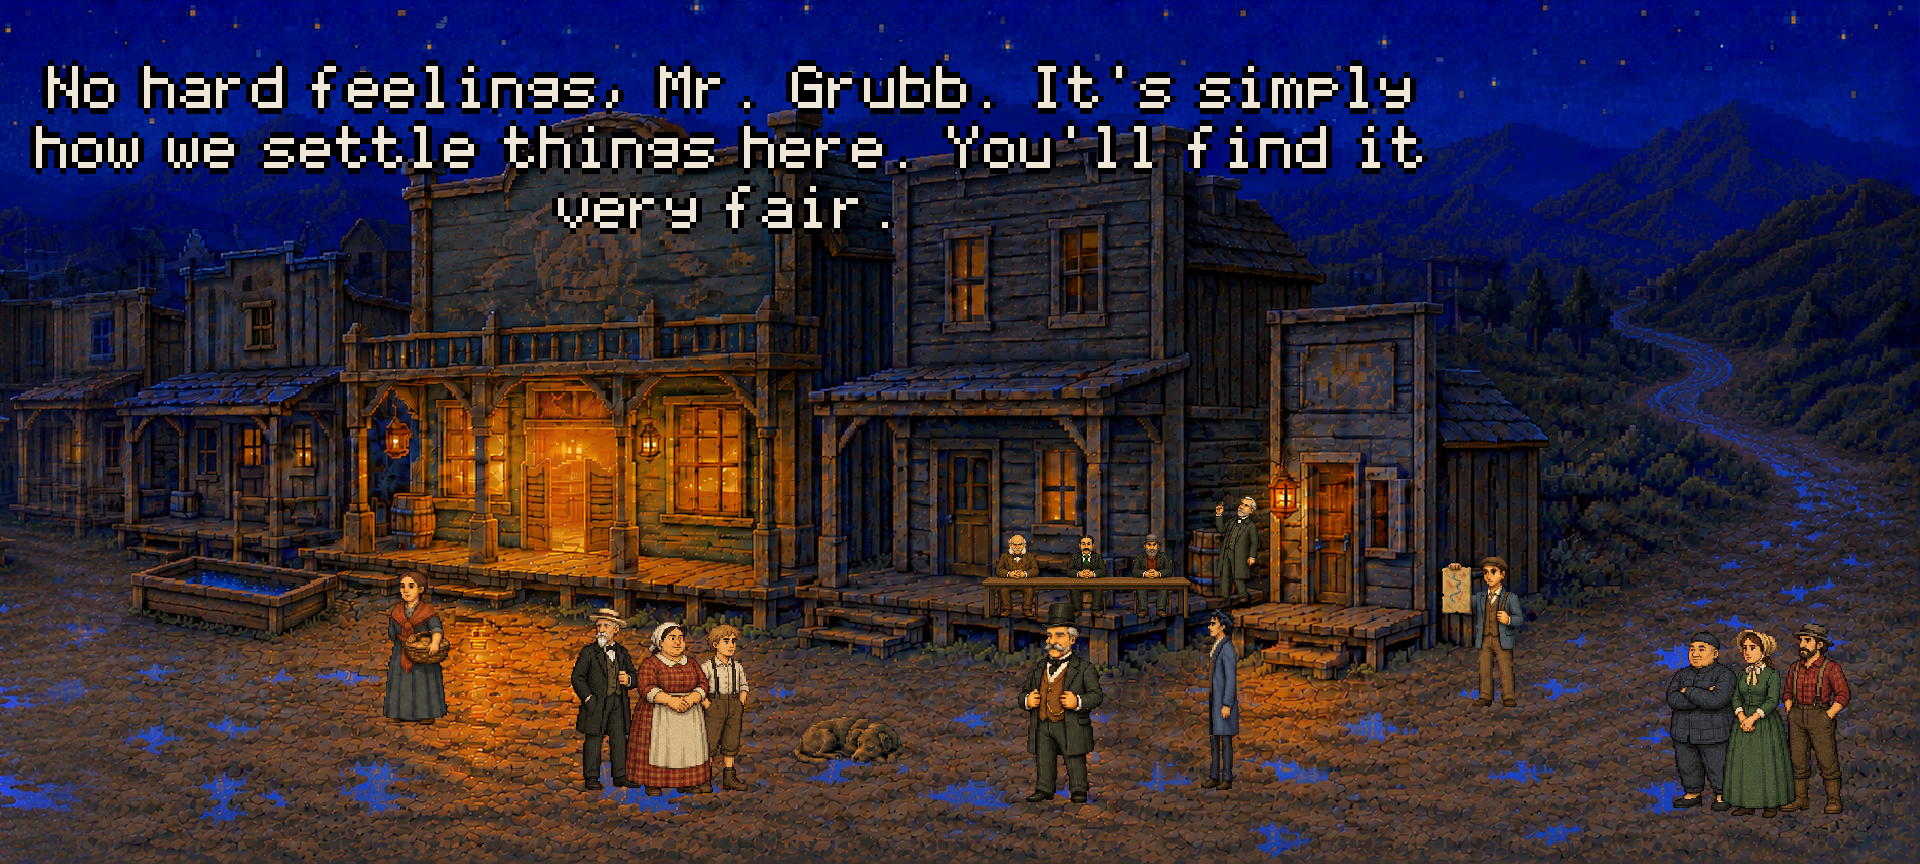
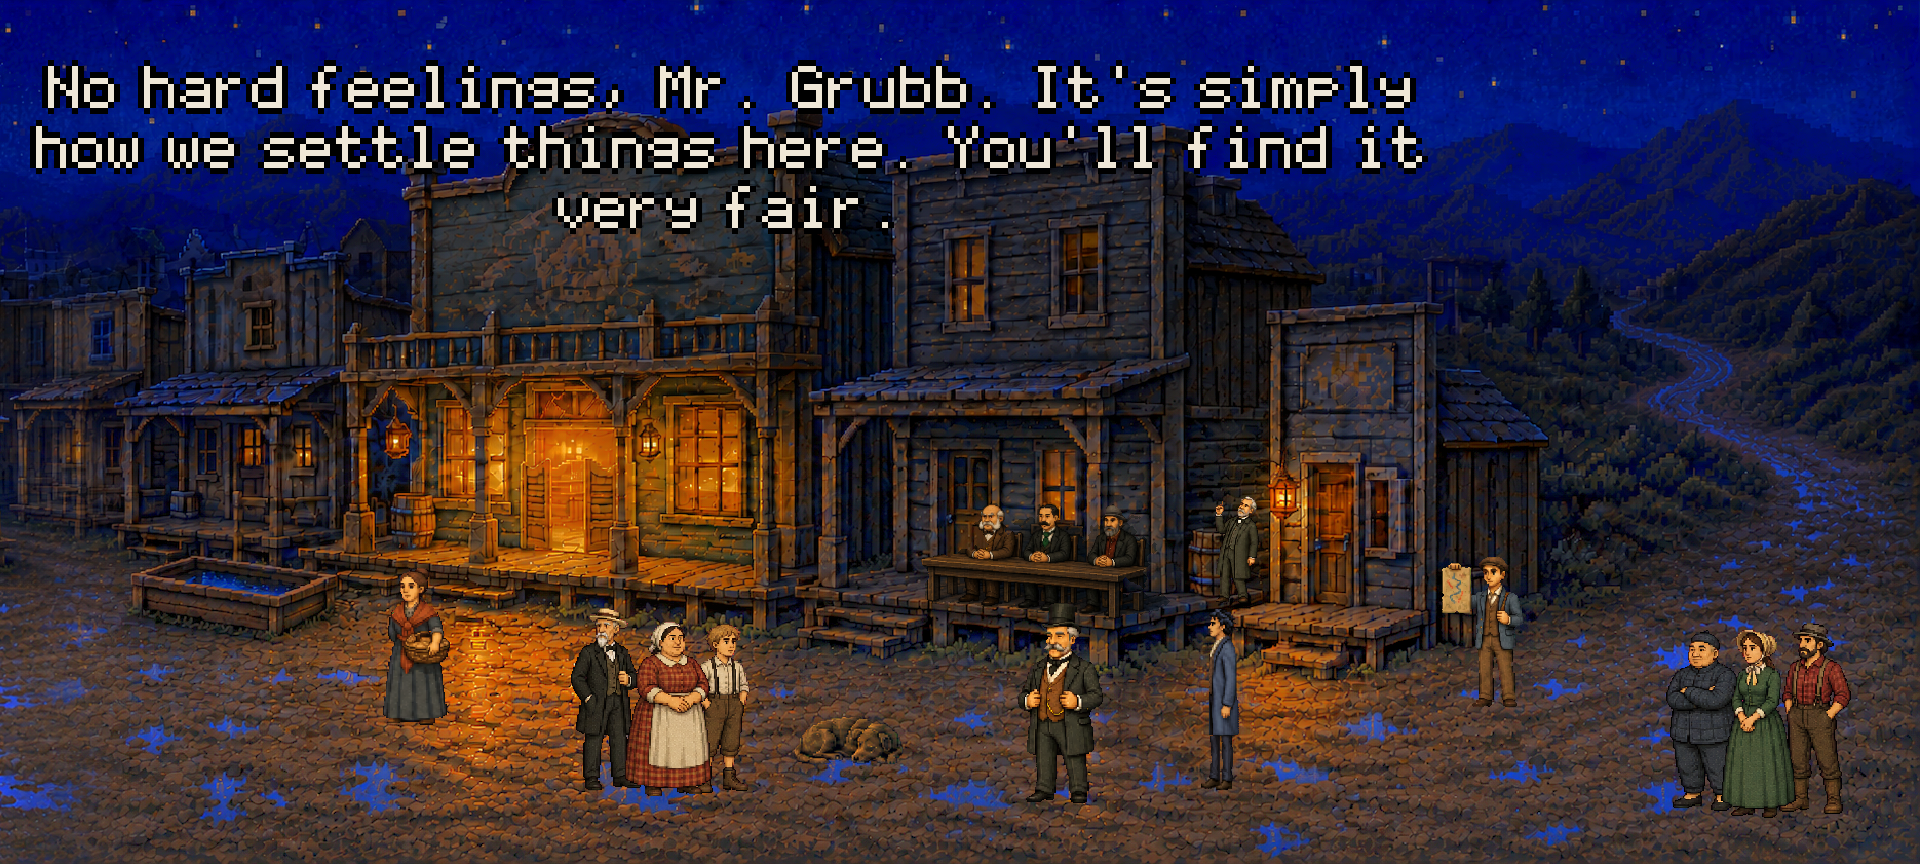
Duel Three's judges painted onto the porch, not laid over it
Tyler: "Just a random table random placed on the porch in a way where it
doesn't fit, it's hanging off edges." The flat-on table sheet stood past the
porch's front edge. Cast-unify 25 painted the judges and table into Room 2's
own porch, in its perspective, and tools/art/room02-porch-judges.py cuts them
by subtraction at the plate's coordinates; a judge's movement uncovers the
porch wall, not his own old pixels.

Lesson: doc 55 section 8 row -- furniture on a raked floor is painted into
the room's plate and cut by subtraction, never drawn flat-on and laid over.

Claude-Session: https://claude.ai/code/session_01FXbCupzwLJAEr7fqqWYP8A

Changed region(s): [[0.4688, 0.5625, 0.625, 0.7188]]

diff --git a/tools/art/room02-porch-judges.py b/tools/art/room02-porch-judges.py
@@ -1,0 +1,128 @@
+"""Duel Three's judges at their table ON the hotel porch, cut by subtraction.
+
+Tyler, 2026-11-06: "Just a random table random placed on the porch in a way
+where it doesn't fit, it's hanging off edges". The table had been drawn
+flat-on, on magenta, and laid on a porch seen at an angle: its front legs
+stood past the porch's front edge and the judges' boots hung under it.
+
+Cast-unify operation 25 (reference/cast-unify-23.txt) painted the three
+judges and their table INTO the porch -- an edit of Room 2's own plate, the
+porch crop enlarged to 1536x1024 -- so the table follows the porch's slope and
+stands on its boards. The edit repainted the whole crop lightly (mean
+difference 28 away from the judges), so the cut is what changed MOST: the
+difference averaged over 5 px, over THRESH, closed, filled, the largest piece,
+inside the box where the judges and table are. Its pixels are the edit's,
+shrunk back to the plate's size, at the plate's own coordinates: the sheet is
+drawn 1:1 where it was painted.
+
+Each judge moves within his own span above the table (errata 77): a breath,
+then a lean to confer, a nod, a glance -- different judges each time.
+
+Writes art/actors/room-02-duel-porch-judges.png; prints the frames and the
+record's x and y.
+"""
+import json, os, sys
+import numpy as np
+from PIL import Image
+from scipy import ndimage as ndi
+
+ROOT = os.path.dirname(os.path.dirname(os.path.dirname(os.path.abspath(__file__))))
+B = os.path.join(ROOT, 'art/staging/cast-unify/batch-23')
+box = json.load(open(f'{B}/porch-crop.json'))['box']
+W, H = box[2] - box[0], box[3] - box[1]
+crop = np.asarray(Image.open(f'{B}/porch-crop.png').convert('RGB')).astype(float)
+edit = np.asarray(Image.open(f'{B}/edit.png').convert('RGB').resize((W, H), Image.BOX)).astype(float)
+REGION = (125, 185, 400, 352)          # crop x0, y0, x1, y1: the judges and the table
+THRESH = 62
+
+d = np.abs(edit - crop).sum(-1)
+d = ndi.uniform_filter(d, 5)
+m = np.zeros_like(d, bool)
+x0, y0, x1, y1 = REGION
+m[y0:y1, x0:x1] = d[y0:y1, x0:x1] > THRESH
+m = ndi.binary_closing(m, iterations=3)
+m = ndi.binary_fill_holes(m)
+lab, n = ndi.label(m)
+m = lab == (1 + int(np.argmax(ndi.sum(m, lab, range(1, n + 1)))))
+m = ndi.binary_opening(m, iterations=1)
+ys, xs = np.nonzero(m)
+t, b, l, r = ys.min(), ys.max(), xs.min(), xs.max()
+group = np.zeros((b - t + 1, r - l + 1, 4), np.uint8)
+group[..., :3] = edit[t:b + 1, l:r + 1].round().astype(np.uint8)
+group[..., 3] = m[t:b + 1, l:r + 1] * 255
+h, w = group.shape[:2]
+
+# The table: the rows where the group is widest and most solid. Judges are
+# the three pieces above its top row; each moves within his own span.
+cover = (group[..., 3] > 0).mean(1)
+table_top = int(np.argmax(cover > 0.8))
+above = group[:table_top, :, 3] > 0
+# By their HEADS: the top third above the table (chair backs join their bodies).
+top_rows = np.nonzero(above.any(1))[0]
+heads = above[top_rows[0]:top_rows[0] + max(8, (table_top - top_rows[0]) // 3)]
+cols = heads.any(0)
+spans, s = [], None
+for c, on in enumerate(cols):
+    if on and s is None: s = c
+    if (not on or c == w - 1) and s is not None:
+        e = c if on else c - 1
+        if e - s > 8: spans.append((s, e + 1))
+        s = None
+# A hat brim can come apart from its head: pieces within 6 px are one head.
+merged = []
+for sp in spans:
+    if merged and sp[0] - merged[-1][1] <= 6: merged[-1] = (merged[-1][0], sp[1])
+    else: merged.append(sp)
+spans = merged
+# A span is a head; widen each to the midpoints between heads so a judge's
+# shoulders move with him.
+if len(spans) == 3:
+    mids = [(spans[0][1] + spans[1][0]) // 2, (spans[1][1] + spans[2][0]) // 2]
+    spans = [(0, mids[0]), (mids[0], mids[1]), (mids[1], w)]
+if len(spans) != 3: Image.fromarray(group).save("/tmp/claude-0/-home-user-consolation-prize/fe4eccca-9877-5440-8761-3a5060a65b57/scratchpad/pj-group.png"); raise SystemExit(f"spans {spans}")
+
+
+# WHAT IS BEHIND A JUDGE IS THE PORCH. Where a lean or a nod moves him off a
+# pixel, the plate's own wall shows there -- not his old pixel: the first cut
+# filled it from the rest frame and every moving judge had two faces.
+behind = np.zeros_like(group)
+behind[..., :3] = crop[t:b + 1, l:r + 1].round().astype(np.uint8)
+behind[..., 3] = group[..., 3]
+
+
+def lean(a, pivot, crown_dx, span):
+    out = a.copy(); c0, c1 = span; seg = a[:, c0:c1].copy(); new = seg.copy()
+    for yy in range(pivot):
+        dx = int(round(crown_dx * (pivot - yy) / pivot)); row = np.zeros_like(seg[yy])
+        if dx > 0: row[dx:] = seg[yy, :-dx]
+        elif dx < 0: row[:dx] = seg[yy, -dx:]
+        else: row = seg[yy]
+        new[yy] = row
+    hole = (new[..., 3] == 0) & (seg[..., 3] > 0); new[hole] = behind[:, c0:c1][hole]
+    out[:, c0:c1] = new; return out
+
+
+def nod(a, line, depth, span):
+    out = a.copy(); c0, c1 = span
+    for yy in range(line + 1):
+        src = yy - int(round(depth * (line - yy) / max(1, line)))
+        row = a[src, c0:c1].copy() if src >= 0 else np.zeros_like(a[yy, c0:c1])
+        gap = (row[..., 3] == 0) & (a[yy, c0:c1, 3] > 0)
+        row[gap] = behind[yy, c0:c1][gap]
+        out[yy, c0:c1] = row
+    return out
+
+
+chin = int(table_top * 0.5)
+breath = group.copy(); breath[:table_top - 1] = group[1:table_top]; breath[table_top - 1] = group[table_top]
+f2 = nod(lean(lean(group, table_top, 6, spans[0]), table_top, -5, spans[2]), chin, 4, spans[1])
+f3 = lean(nod(lean(group, table_top, -6, spans[1]), chin, 4, spans[0]), table_top, 6, spans[2])
+f4 = nod(lean(nod(group, chin, 4, spans[2]), table_top, 5, spans[0]), chin, 4, spans[1])
+frames = [group, breath, f2, f3, f4]
+GAP = 2
+sheet = np.zeros((h + 2 * GAP, len(frames) * (w + GAP) + GAP, 4), np.uint8)
+rects = []
+for i, f in enumerate(frames):
+    fx = GAP + i * (w + GAP); sheet[GAP:GAP + h, fx:fx + w] = f; rects.append([fx, GAP, int(w), int(h)])
+Image.fromarray(sheet).save(os.path.join(ROOT, 'art/actors/room-02-duel-porch-judges.png'))
+print(json.dumps({'frames': rects, 'x': int(box[0] + l + w // 2), 'y': int(box[1] + b), 'tableTop': table_top, 'spans': spans}))

diff --git a/docs/55-full-game-build.md b/docs/55-full-game-build.md
@@ -208,4 +208,5 @@ Every row here shipped past a green suite and was found by Tyler playing, by a r
 - **A hat is not part of a man's height.** `figureHeight` is crown to sole; counted from the top of a top hat, the man under it is drawn short by the hat (the duel Fanshawe, about 11%). The scale test trusts `figureHeight`, so it cannot see this: measure it with `tools/art/figure-height.py --hat`.
 - **Before a redraw, look at what the old drawing did in its room, whole.** The livery man's first drawing sat in a chair the plate paints, and the panner's crouched side-on so his pan reached the water. Redrawn from crops, one brought a second chair and the other faced the viewer with his body over the creek (Tyler: "a second chair attached to the side of his chair", "standing on water"). Compose the OLD drawing on the plate first and write down what it touches -- a chair, a table, the water -- then brief the new one to touch the same things.
 - **Judge a scene from the whole frame at game size, never from a crop.** Duel Three was approved from a crop of the porch; the whole frame showed Thad tiny in a doorway while Fanshawe called him out from the street, the map seller's map across Thad, and the dog under a crowd's feet (Tyler: "The main street scene is a MESS"). A crop hides exactly the relations that make a scene read. Thad now walks to face whoever calls him out (`accost.approach`), and nobody may stand where he comes in (`tests/staging-clear.test.ts`).
+- **Furniture on a floor seen at an angle is painted INTO the room, never drawn flat-on and laid over it.** The duel's judges' table was drawn frontally on magenta and laid on a porch seen from the left: its legs stood past the porch's front edge and the judges' boots hung in the air (Tyler: "Just a random table random placed on the porch… it's hanging off edges"). Anything that stands on a raked floor -- a table with people at it, a bench, a cart -- is an edit of the room's own plate that adds it, then cut by subtraction (`tools/art/room02-porch-judges.py`); its movement fills what a figure uncovers with the plate, not with his own old pixels (which drew two faces).
 - **Art needs the "OpenAI" environment.** A session without the key writes a brief (`reference/room-NN/<subject>/brief.md`, a verbatim prompt, a reference image, a generator, the cap in `art/staging/caps.json`) and hands Tyler a paste-ready prompt for a session in that environment. The barrel and Deke's walk were made this way.

diff --git a/docs/00-errata.md b/docs/00-errata.md
@@ -2777,3 +2777,5 @@ What Tyler still decides: acceptance of the art (errata 72 E, at the full playth
 **Q · Sheng; the stage driver stays (2026-11-06).** Cast-unify 23: Sheng at his ironing board in all seven of his poses, the board, shirt and iron in every one. The stage driver is not redrawn: he is baked into the coach's own frames with only his head an overlay, and CLAUDE.md's character gate names him with Thad and the Nugget's bar men as already in Thad's look. Every recurring character on the master is now drawn from it or, like Thad, Hob, Deke and the driver, kept. Twenty-three of thirty-five operations used.
 
 **R · Three corrections from Tyler (2026-11-06): the livery man, the man panning, Duel Three.** The livery man is drawn without a chair and sits in the one the plate paints, mirrored to face Grievance's stall (doc 54); operation 22 had given him a chair of his own beside it. The man panning crouches side-on on the near bank, his pan dipped at the water's edge, as his first drawing did; operation 22 had him facing the viewer with his body over the creek. Both cast-unify 24. Duel Three: Thad walks down from the assay office door to face Fanshawe before the challenge (`accost.approach`, new: he walks to the caller's `walkTo` and the conversation opens on arrival); the left crowd moves off the dog; and the map seller moves to x 3270, right of the assay office steps -- at x 3140 Thad came out of that door behind him and his map lay across Thad, on every visit. A new check holds the last: wherever the player comes into a built room, he overlaps nobody. Twenty-four of thirty-five operations used.
+
+**S · Duel Three's judges ON the porch (Tyler, 2026-11-06).** The table drawn flat-on and laid on the porch hung off its front edge. Cast-unify 25 painted the three judges and their table into Room 2's own porch -- the table on the boards in the porch's perspective, replacing the bench -- and `tools/art/room02-porch-judges.py` cuts them by subtraction at the plate's coordinates, drawn 1:1 (`duel_judges`, no figureHeight). The earlier flat-on table sheet is no longer drawn. Twenty-five of thirty-five operations used.
